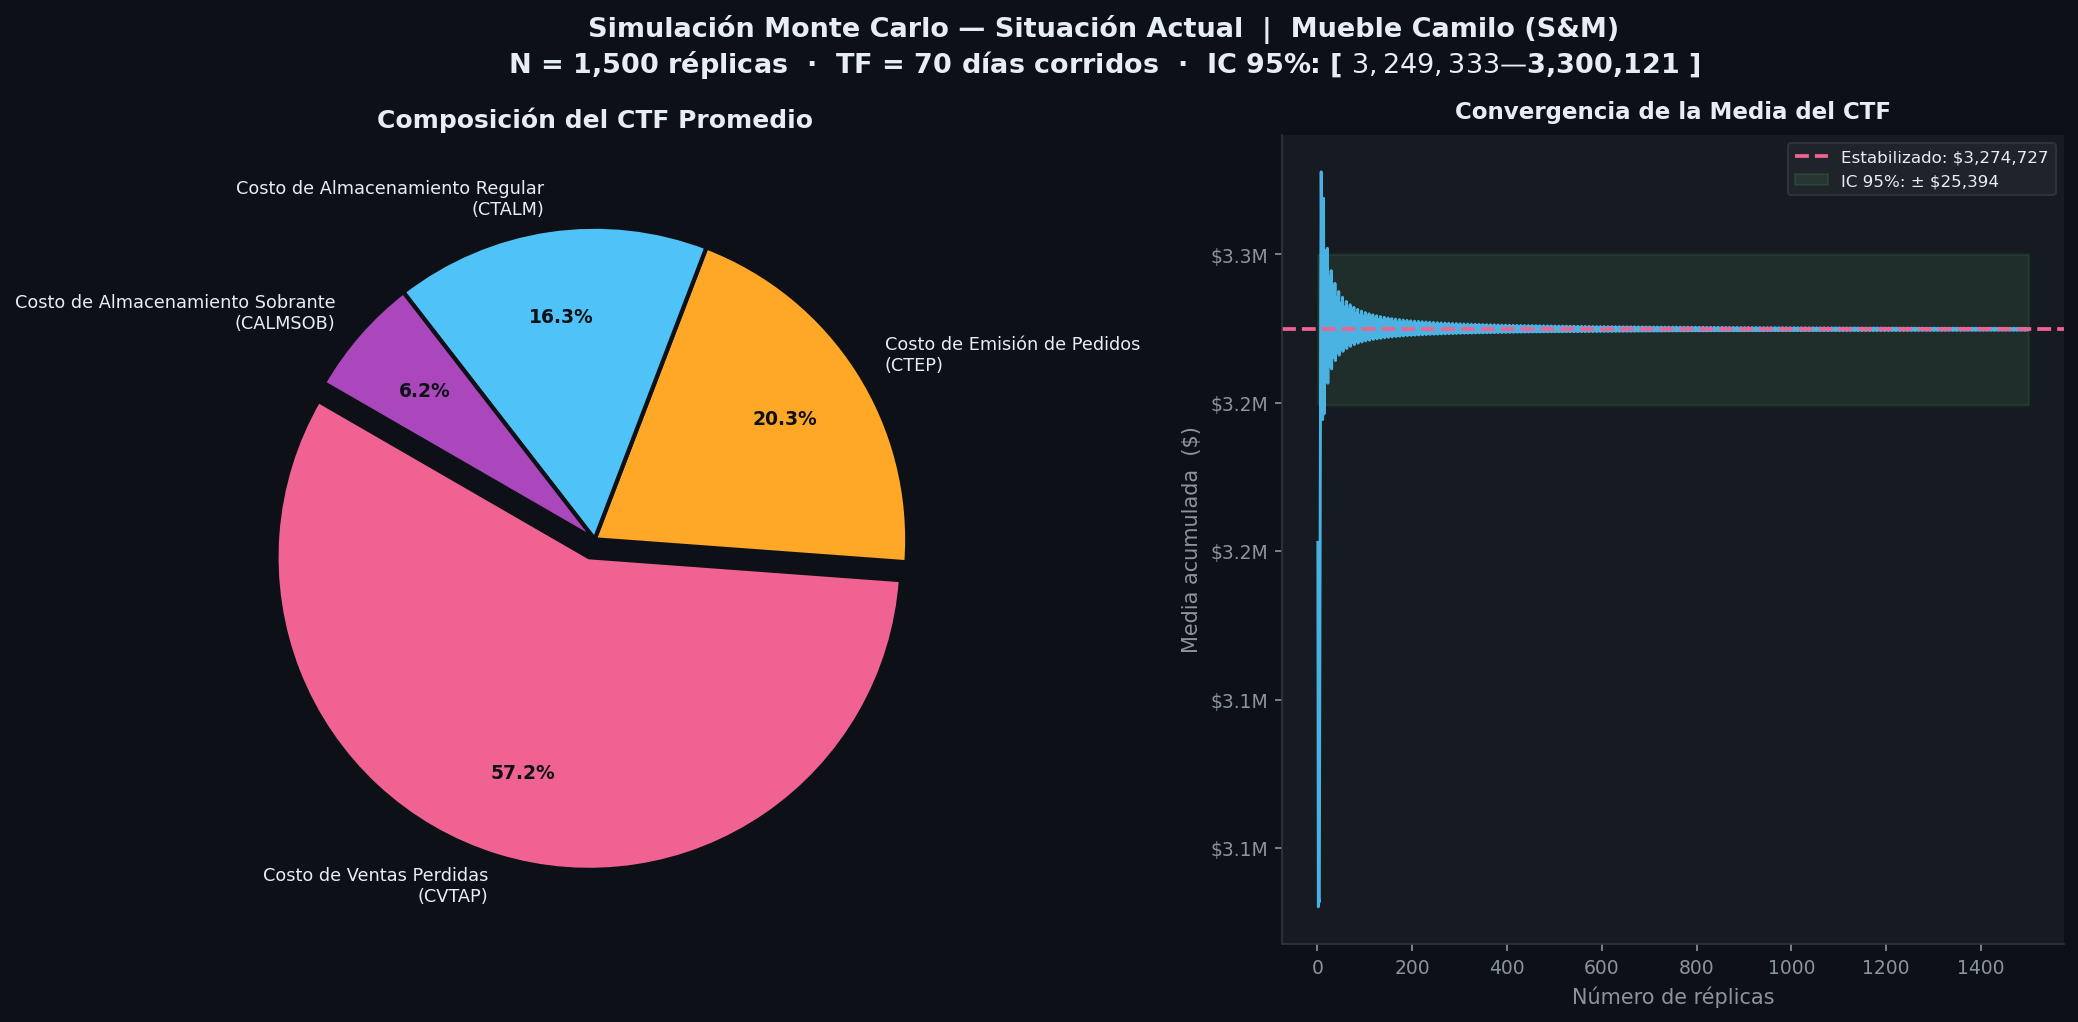
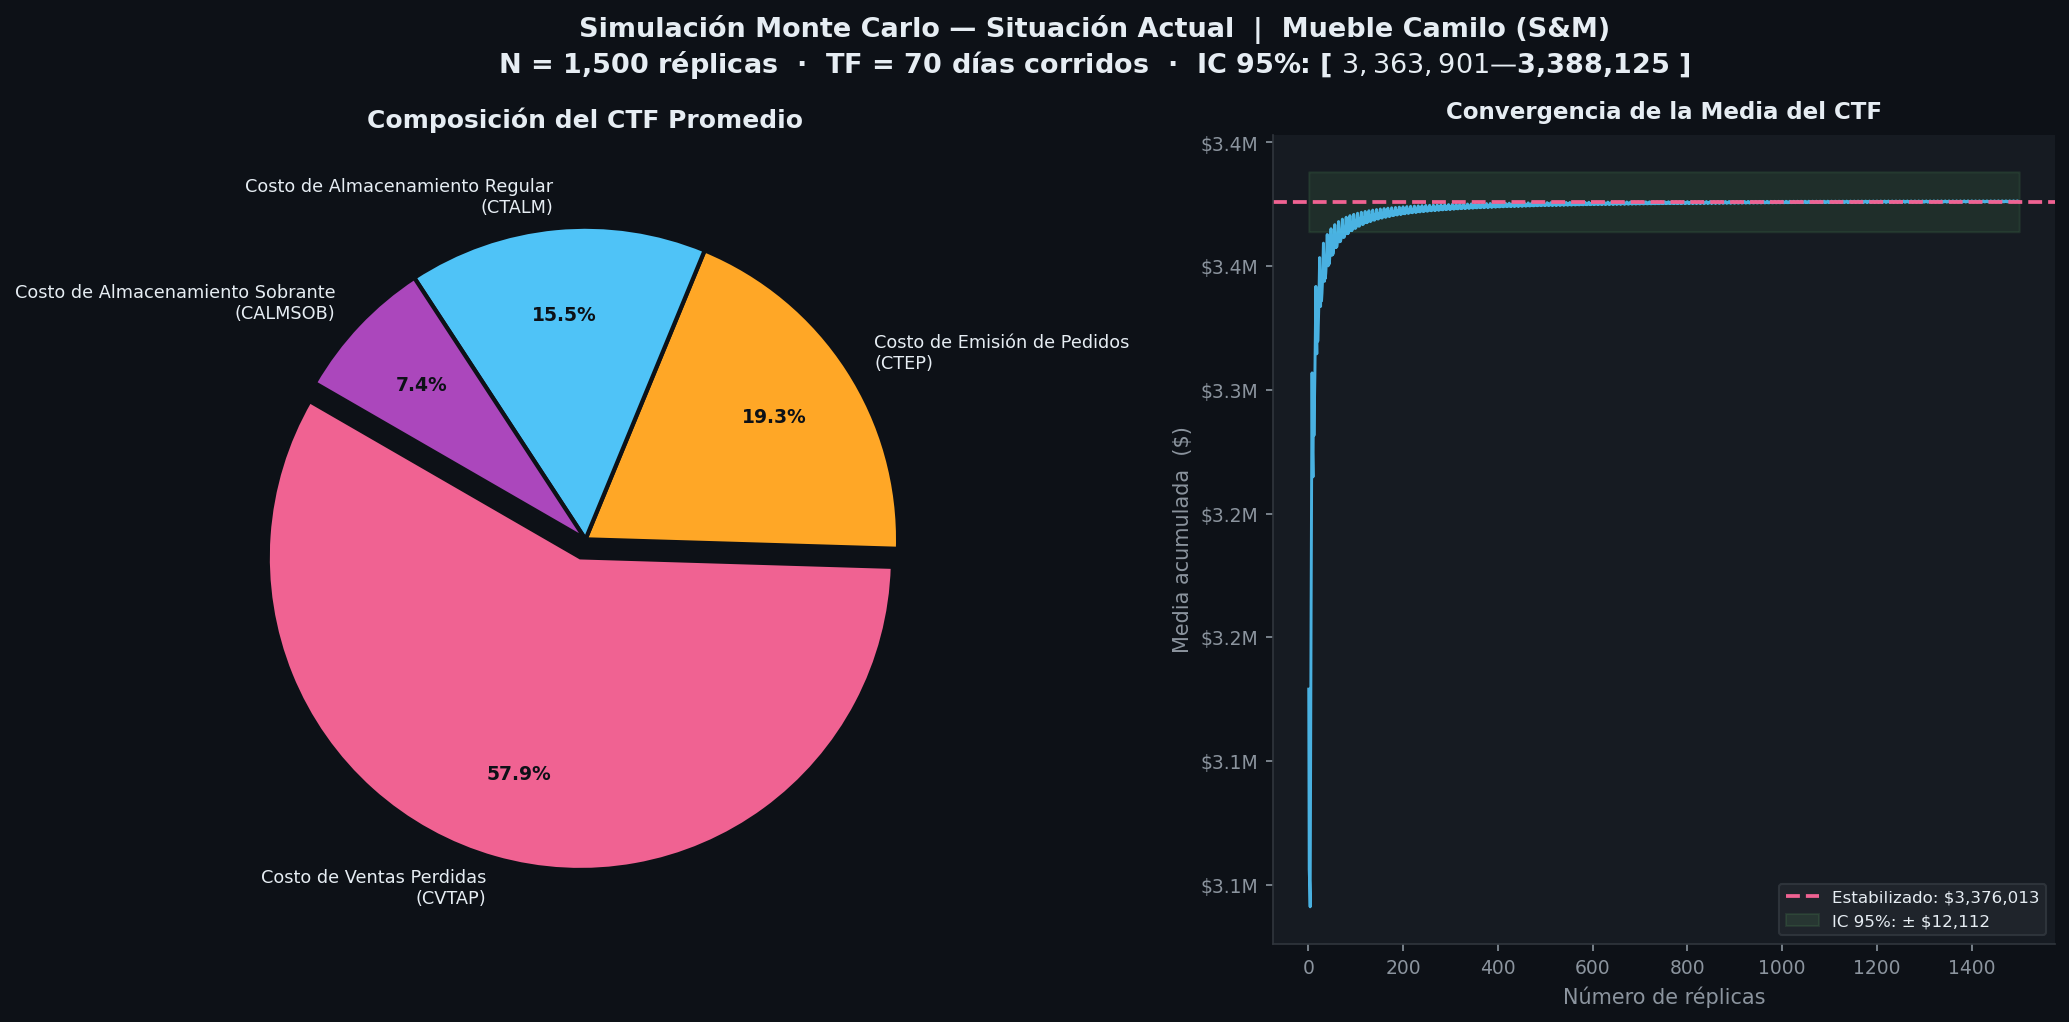
refactor: update simulation parameters and inventory logic and add output analysis files

diff --git a/simulacion_actual.py b/simulacion_actual.py
@@ -10,8 +10,8 @@ def simular_actual(
     CALM:     float = 0,
     CSOB:     float = 0,
     CUN:      float = 234_000,    # Costo de compra por unidad ($)
-    CV:       float = 305_000,    # Precio de venta por unidad ($)
-    PRESUP_0: float = 1_000_000,  # Presupuesto inicial ($)
+    CV:       float = 327_600,    # Precio de venta por unidad ($)
+    PRESUP_0: float = 800_000,    # Presupuesto inicial ($)
     TF:       int   = 70,
     MAX_CAP:  int   = 10,
     ST_0:     int   = 7,
@@ -21,14 +21,15 @@ def simular_actual(
     """
     Simula la política ACTUAL de gestión de inventario del Mueble Camilo.
 
-    Nuevo diagrama de flujo (actualizado):
+    Diagrama de flujo (versión actualizada 2026-06-29):
       · Días de CORRIDO: sábado (T%7=5) y domingo (T%7=6) no son hábiles → VD=0, sin actividad.
       · Pedido SOLO los lunes (T mod 7 == 0), siempre, sin importar pedidos pendientes.
-      · TP = floor(MAX_CAP − ST)  ← determinístico, llena hasta capacidad máxima.
-             (fórmula del diagrama: REDOND(IDE MOD CUN) = IDE dado que IDE < CUN siempre)
+      · TP = floor(PRESUP / CUN)  → cuántas unidades se pueden comprar con el presupuesto;
+             se reduce de a 1 mientras TP > (MAX_CAP − ST) para no exceder capacidad.
       · Sobrante detectado DESPUÉS de atender demanda: si ST > MAX_CAP → SOB = ST − MAX_CAP.
       · CTALM: si sobrante → cobra CALM sobre (ST−MAX_CAP); si no → cobra sobre ST.
-      · PRESUP: ledger que suma ingresos por ventas y resta costos de compra y almacenamiento.
+      · PRESUP: ledger que suma ingresos por ventas y resta costos (compra, CEP, almacenamiento).
+      · Al emitir pedido: PRESUP -= CEP además de PRESUP -= TP*CUN.
 
     Retorna dict con CTF, CTALM, CVTAP, CTEP, CALMSOB, VTAP, NROP, PRESUP, historial.
     """
@@ -168,8 +169,9 @@ def simular_actual(
                 if TP_nuevo > 0:
                     PRESUP   -= TP_nuevo * CUN  # egreso por compra
                     NROP     += 1
+                    CTEP     += CEP             # costo de emisión acumulado
+                    PRESUP   -= CEP             # descuento del CEP al presupuesto
                     TP_lst[NROP] = TP_nuevo
-                    CTEP     += CEP
                     DE        = gen_demora.siguiente()
                     FLL[NROP] = T + DE
                     pedido_info = {"nrop": NROP, "tp": TP_nuevo, "de": DE, "fll": T + DE}